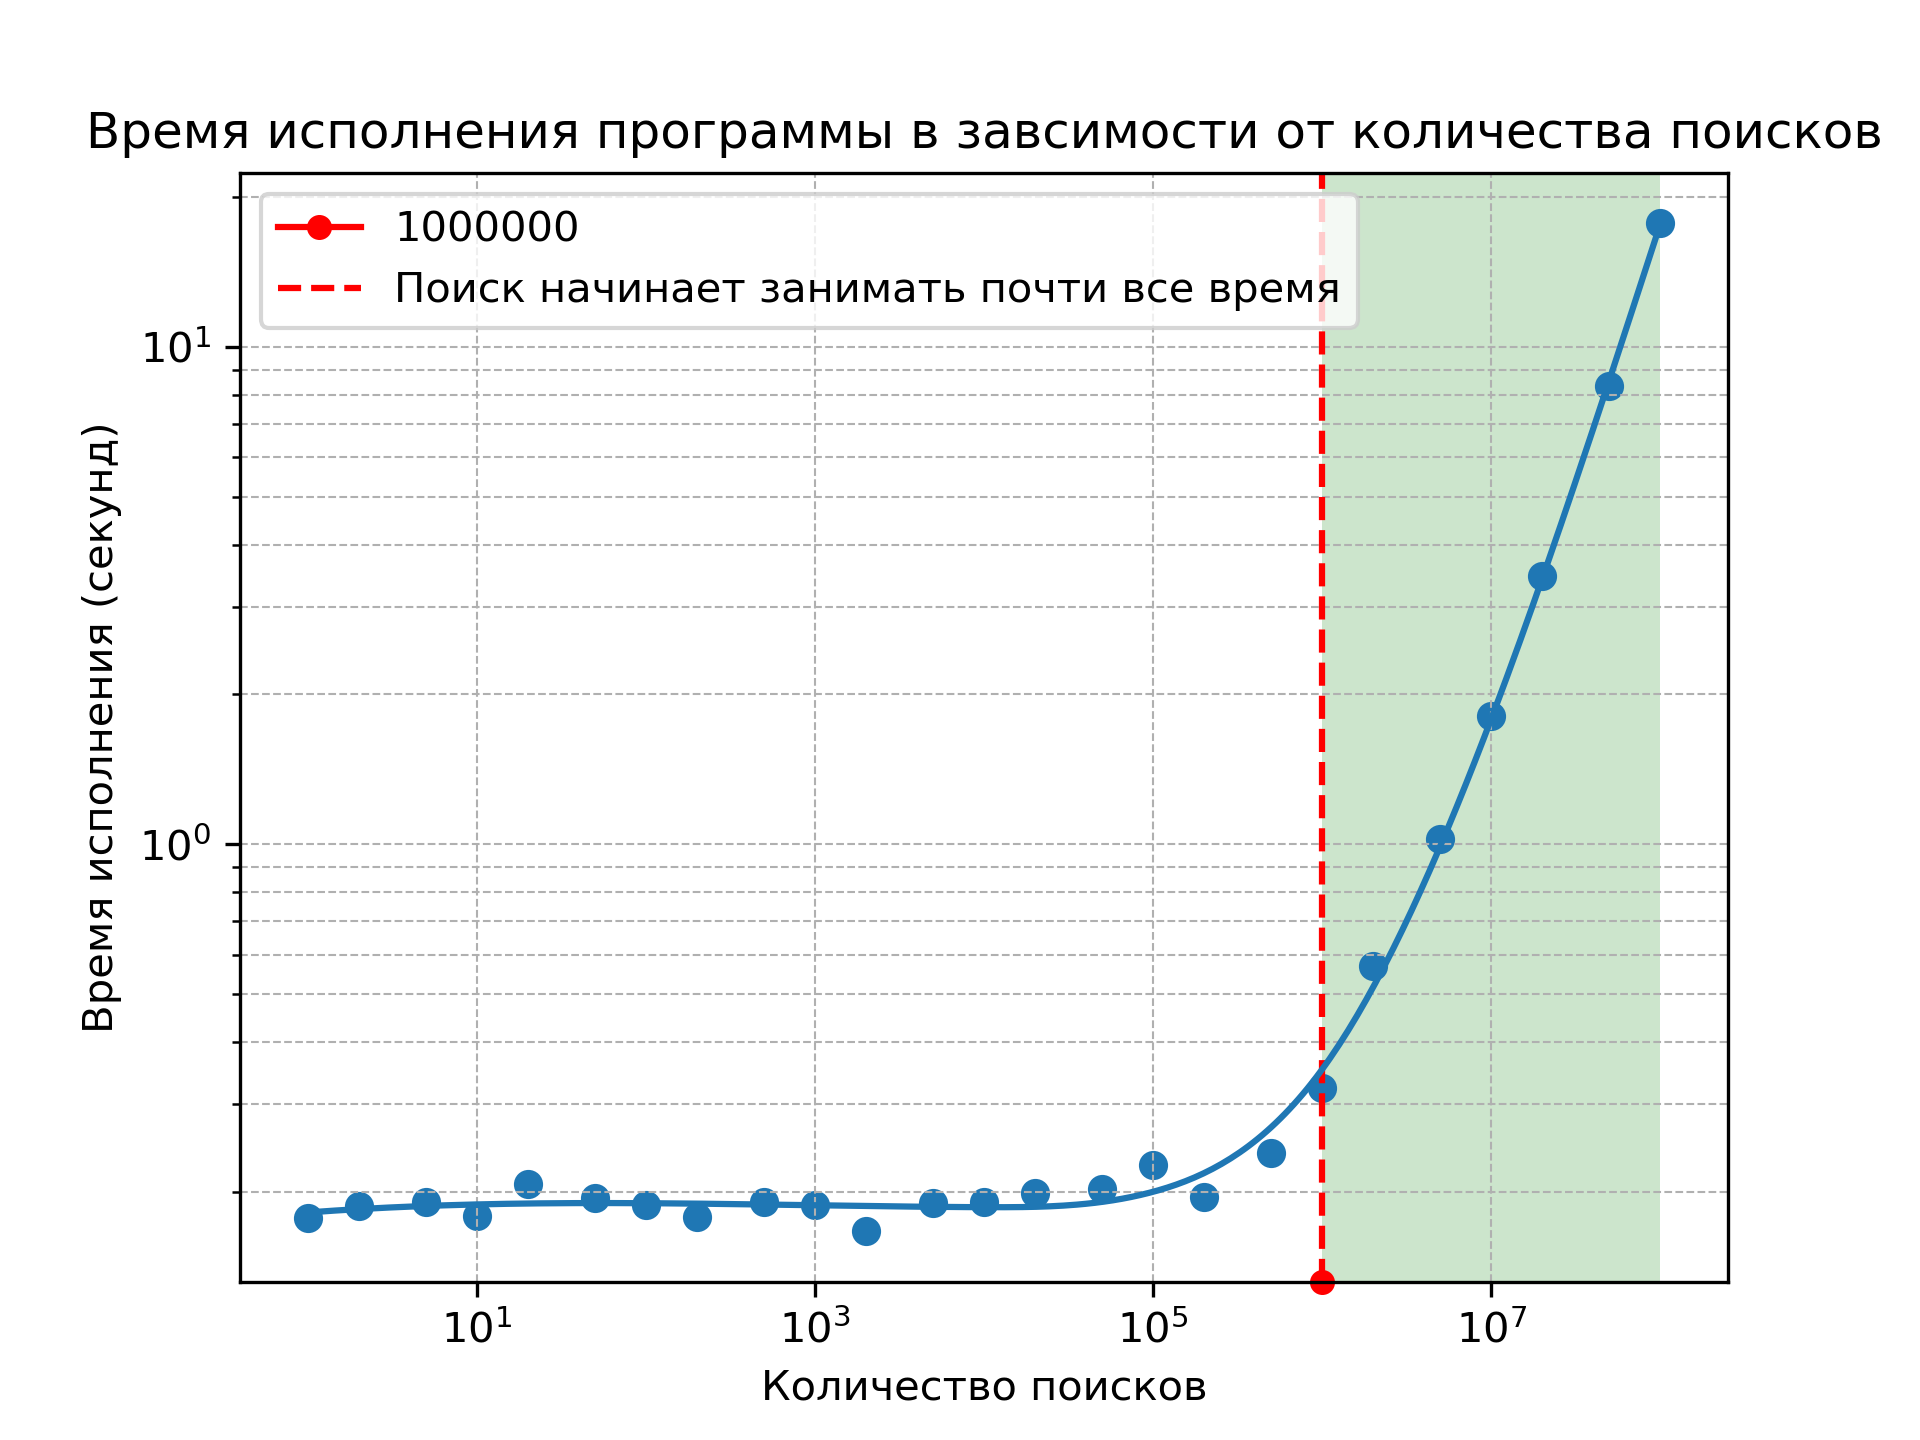
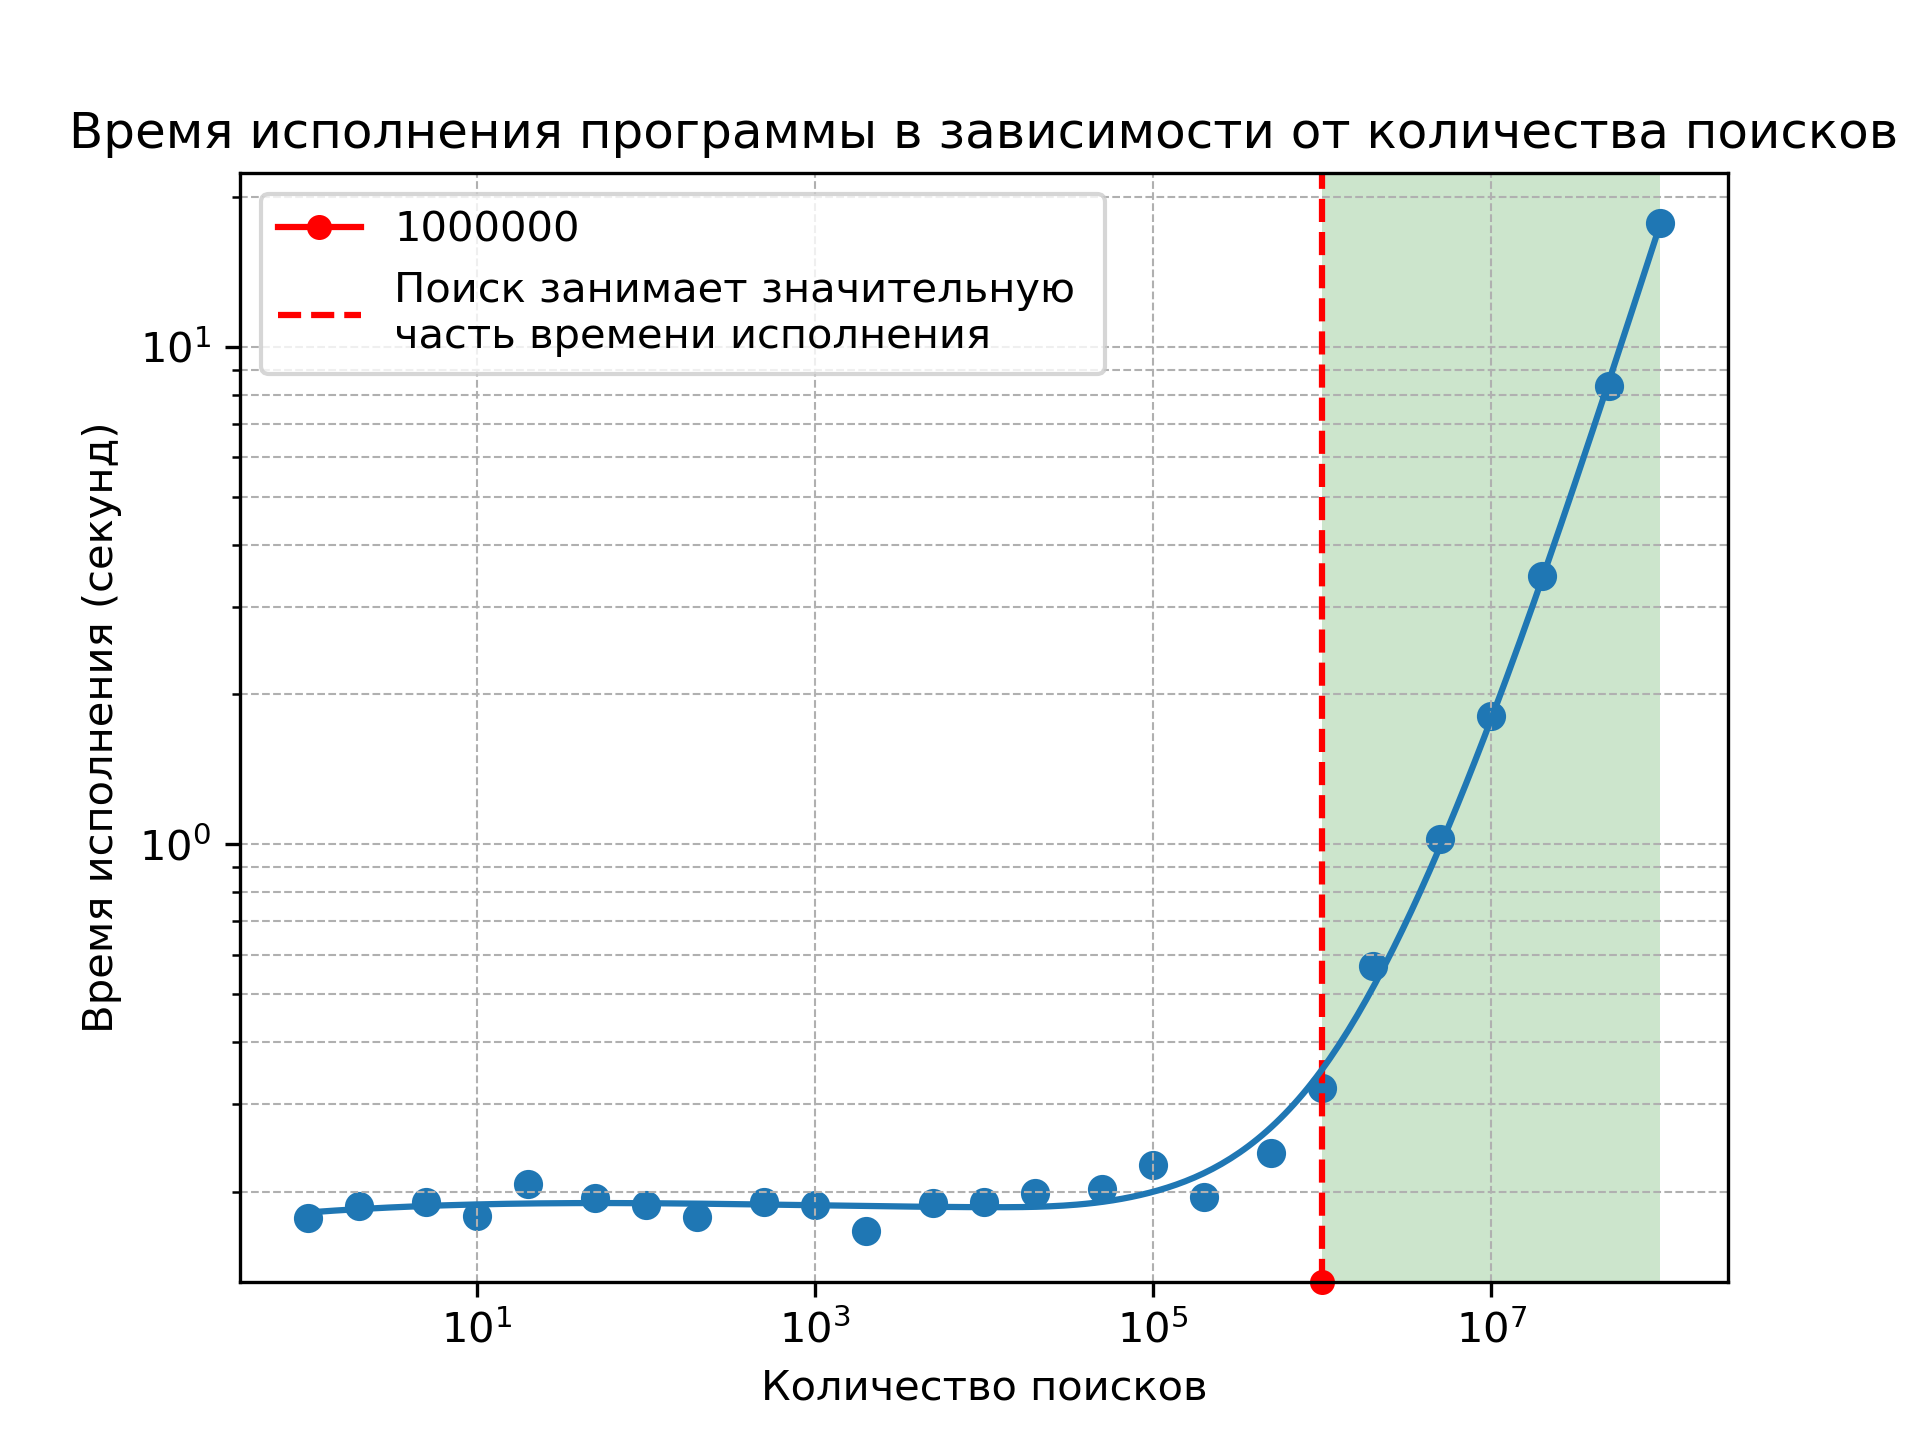
before merging in main

Changed region(s): [[0.0312, 0.0625, 1.0, 0.2812]]

diff --git a/benchmarks/handleBenchResult.py b/benchmarks/handleBenchResult.py
@@ -3,13 +3,11 @@ import pandas as pd
 import numpy as np
 import matplotlib.pyplot as plt
 
-# === 1. Загружаем JSON ===
 with open("compareO0andO3.json") as f:
     data = json.load(f)
 
 results = data["results"]
 
-# === 2. Переводим в DataFrame ===
 df = pd.DataFrame(results)
 
 cols = ["mean", "stddev", "min", "max"]
@@ -19,13 +17,11 @@ df_rounded[cols] = df_rounded[cols].round(2)
 print("\n=== Основная таблица ===")
 print(df_rounded[["command", "mean", "stddev", "min", "max"]])
 
-# === 3. Кто быстрее ===
 fastest = df.loc[df["mean"].idxmin()]
 slowest = df.loc[df["mean"].idxmax()]
 print("\n=== Самая быстрая версия ===")
 print(fastest["command"])
 
-# === 4. Сравнение скорости ===
 print("\n=== Сравнение (во сколько раз медленнее) ===")
 for _, row in df.iterrows():
     ratio = row["mean"] / fastest["mean"]
@@ -39,11 +35,9 @@ with open(output_file, "w") as out:
     out.write(df_rounded[["command", "mean", "stddev", "min", "max"]].to_string())
     out.write("\n\n")
 
-    # Самая быстрая версия
     out.write("=== Самая быстрая версия ===\n")
     out.write(f"{fastest['command']}\n\n")
 
-    # Сравнение
     out.write("=== Сравнение ===\n")
     for _, row in df.iterrows():
         ratio = slowest["mean"] / row["mean"]

diff --git a/benchmarks/makeGraphicSearchChooseAmount.py b/benchmarks/makeGraphicSearchChooseAmount.py
@@ -49,7 +49,7 @@ if best_index is not None:
     plt.plot(x[best_index], 0, marker='o', color='red', markersize=5, clip_on=False, transform=plt.gca().get_xaxis_transform(), label = f"{x[best_index]}")
 
     
-    plt.axvline(x = x[best_index], color='r', linestyle='--', label = "Поиск начинает занимать почти все время")
+    plt.axvline(x = x[best_index], color='r', linestyle='--', label = "Поиск занимает значительную \nчасть времени исполнения")
     plt.axvspan(xmin=x[best_index], xmax=max(x), facecolor='green', alpha=0.2)
 else:   
     print("Не найдено")
@@ -89,7 +89,7 @@ plt.yscale("log")
 
 plt.xlabel("Количество поисков")
 plt.ylabel("Время исполнения (секунд)")
-plt.title("Время исполнения программы в завсимости от количества поисков")
+plt.title("Время исполнения программы в зависимости от количества поисков")
 
 plt.grid(True, which="both", linestyle="--", linewidth=0.5)
 

diff --git a/src/main.cpp b/src/main.cpp
@@ -13,20 +13,20 @@
 #include <stdlib.h>
 
 const size_t MAX_FILE_NAME_LENGTH = 64;
-// const size_t N_SEARCH             = 10e7; 
+const size_t N_SEARCH             = 10e7; 
 const size_t N_TESTS              = 1;
 
 void testHashTable(words_t* words, size_t nSearches);
 
 int main(int argc, char* argv[]){
     char wordsFileName[MAX_FILE_NAME_LENGTH] = "";
-    size_t nSearches = 0;
+    size_t nSearches = N_SEARCH;
     if(argc >= 3){
         if(!strcmp("-f", argv[1])){
             strcpy(wordsFileName, argv[2]);
         }
 
-        if(!strcmp("-n", argv[3])){
+        if(argc == 5 && !strcmp("-n", argv[3])){
             nSearches = atoi(argv[4]);
         }
 
